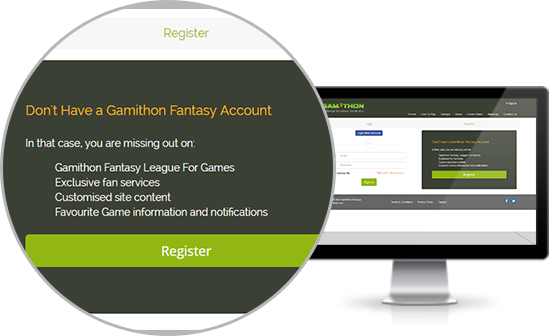
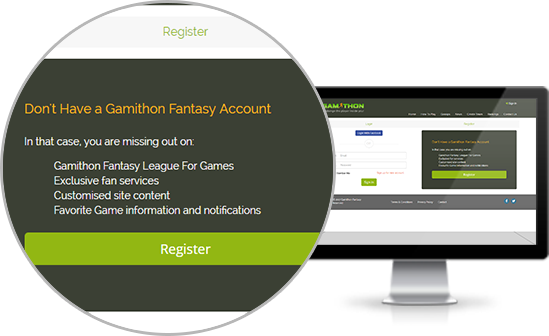
edit text

diff --git a/resources/views/pages/how-to-play.blade.php b/resources/views/pages/how-to-play.blade.php
@@ -94,7 +94,7 @@
                             <span class="sign_up_imp"><img src="{{URL::to('/img/sign-up_imp5.png')}}" alt=""/></span>
                         </li>
                         <li>
-                            <div class="sign_text">6. You can win exciting prizes once you make your way into the <a href="{{URL::to('/')}}"> leader board</a> </div>
+                            <div class="sign_text">6. You can win exciting prizes if you attain first position on leaderboard. <a href="{{URL::to('/')}}"></a> </div>
                             <span class="sign_up_imp"><img src="{{URL::to('/img/sign-up_imp6.png')}}" alt=""/></span>
                         </li>
 

diff --git a/resources/views/auth/login.blade.php b/resources/views/auth/login.blade.php
@@ -126,7 +126,7 @@
                             <li>Exclusive fan services</li>
                             <li>Customised site content</li>
 
-                            <li>Favourite Game information and notifications</li>
+                            <li>Favorite Game information and notifications</li>
 
 
                         </ul>
